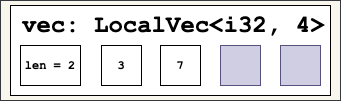
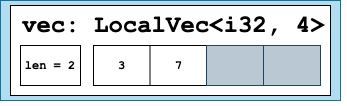
Readme update (#7)

diff --git a/README.md b/README.md
@@ -1,30 +1,63 @@
 # `local_vec`
 
-A *fixed-capacity* vector allocated on the stack.
+A *fixed-capacity* vector whose elements <b>stored *locally*</b>. In particular, they can be allocated on the [stack](#allocating-on-the-stack-or-the-heap).
 
 [![License: MIT](https://img.shields.io/badge/License-MIT-yellow.svg)](https://opensource.org/licenses/MIT)
 [![Build Status](https://app.travis-ci.com/m-rinaldi/local_vec.svg?branch=main)](https://app.travis-ci.com/m-rinaldi/local_vec)
 
 ---
 
-`local_vec::LocalVec` is a *fixed-capacity* vector, i.e., its *size* or *length* increases and decreases as elements are pushed into and popped from the vector, respectively. However, its *capacity* remains always the same.
+`LocalVec` is a *fixed-capacity* vector, i.e., its *size* or *length* increases and decreases as elements are pushed into and popped from the vector, respectively. However, its *capacity* always remains the same and must be determined at [compile time](#compile-time-capacity).
 
-`LocalVec`'s elements reside inside it:
+The elements of a `LocalVec` are stored on a *local buffer* inside the `LocalVec` itself, not on a *remote buffer* allocated on the heap.
+
+---
+
+### `LocalVec` *vs* `Vec`
+
+`LocalVec`'s elements reside locally, i.e., inside it:
 
     use local_vec::LocalVec;
     let mut vec = LocalVec::<_, 4>::new();
     vec.push(3);
     vec.push(7);
     
-`vec` contents in the code above are graphically represented as:
+`vec` contents in the code above are:
 
 <p align="center">
   <img src="img/LocalVec.png">
 </p>
 
+That is, `vec` has a *local buffer*, and the `i32` values `3` and `7` are stored inside `vec` itself, not in a *remotely*-allocated buffer on the heap.
 
-In contrast, [`Vec`](https://doc.rust-lang.org/std/vec/struct.Vec.html) allocates a buffer on the heap and contains a pointer to that buffer instead of the buffer itself.
+
+In contrast, [`Vec`](https://doc.rust-lang.org/std/vec/struct.Vec.html) allocates a *remote* buffer on the heap and contains a pointer to that buffer instead of the buffer itself:
+
+    let mut v = Vec::with_capacity(4);
+    v.extend([3, 7]);
+    
+<p align="center">
+  <img src="img/Vec.png">
+</p>
+
+That is, `v` points to a *remote buffer*, and the `i32` values `3` and `7` are stored on that remote buffer, which is allocated on the heap.
+
+### Compile-time capacity
+
+Since the size of a `LocalValue` depends on its capacity, the capacity of a `LocalVec` must be determined at compile time. This is achieved with a constant generic argument thanks to *const generics*:
+
+    let mut vec = LocalVec::<i32, 4>::new();
+                                  |
+        const generic argument <--|
 
 
-The capacity of a `LocalVec` must be determined at compile-time as a constant argument.
+### Allocating on the Stack or the Heap
+
+Technically, the elements `LocalVec` contains are stored *locally*  in the `LocalVec`. Whether or not these elements are on the stack depends on whether the `LocalVec` itself is allocated on the stack. For example:
+
+    let vec = Box::new(LocalVec::<u8, 32>::new());
+
+
+`vec` is allocated on the heap, and so are the elements it contains because they are stored inside `vec` itself. There isn't an additional heap allocation as it would have been the case with `Vec`, though.
+
 
